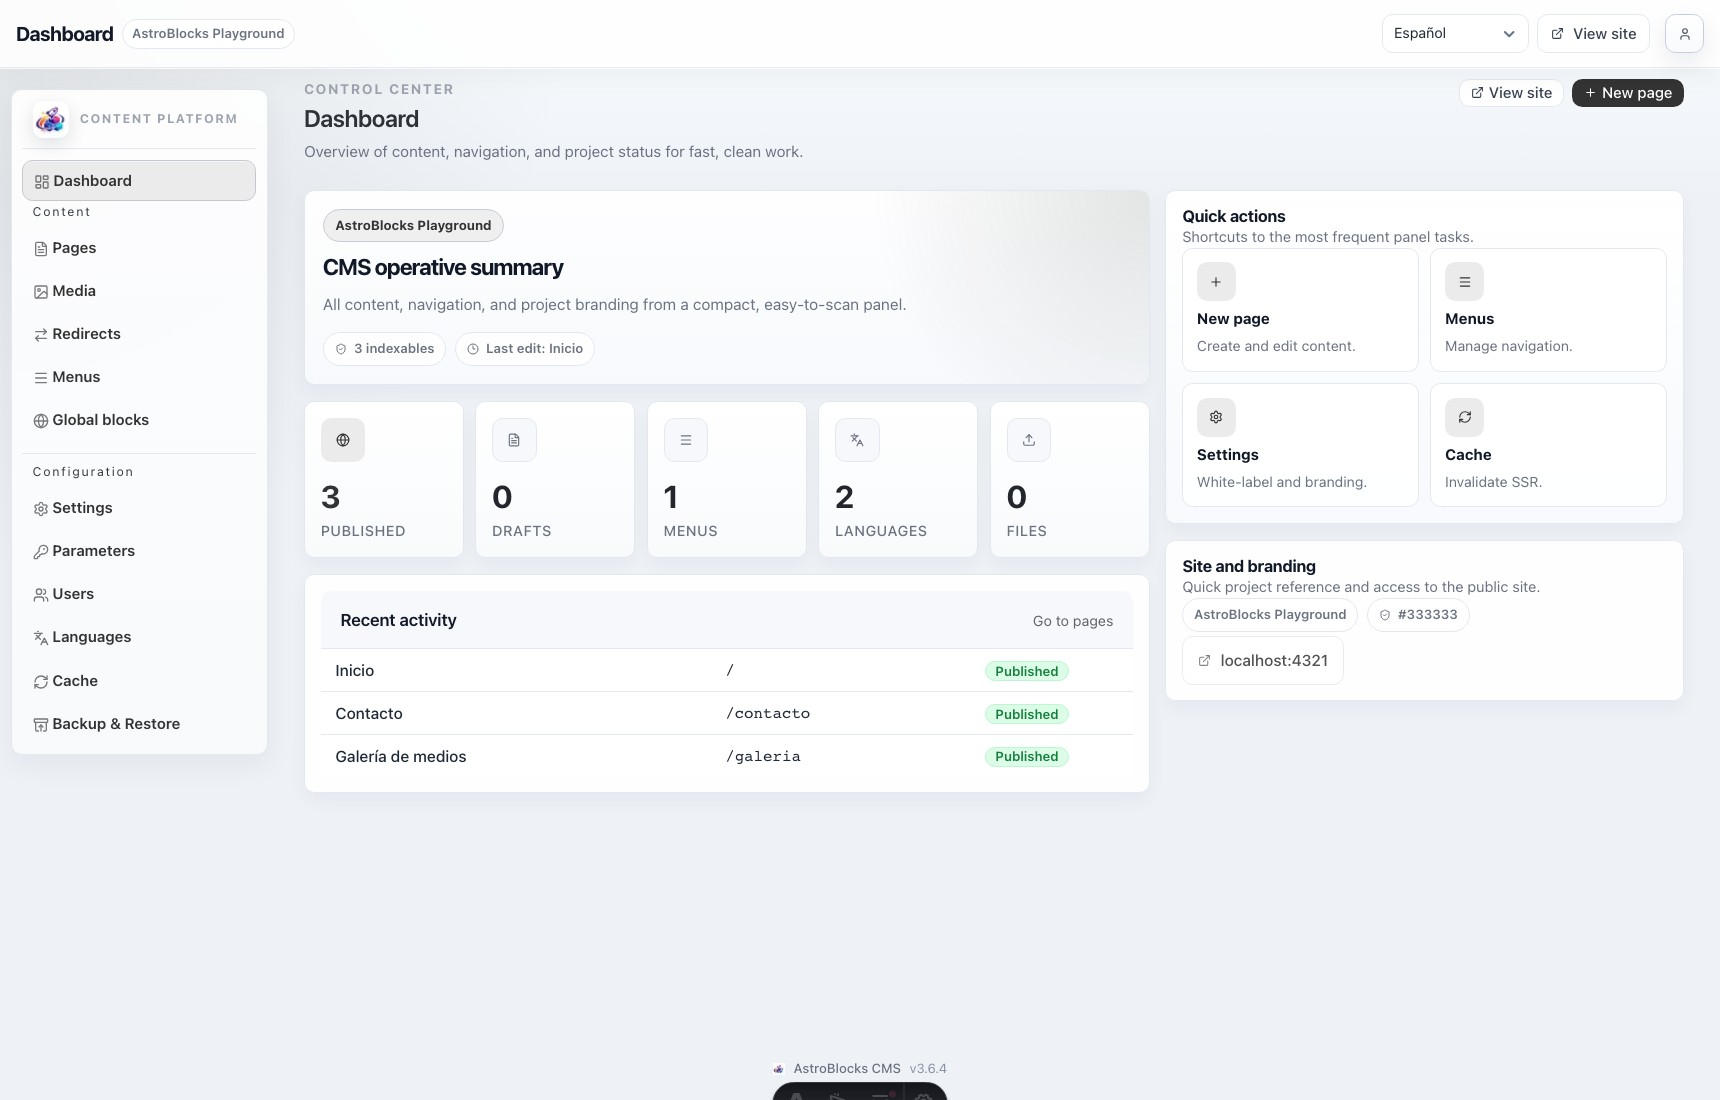
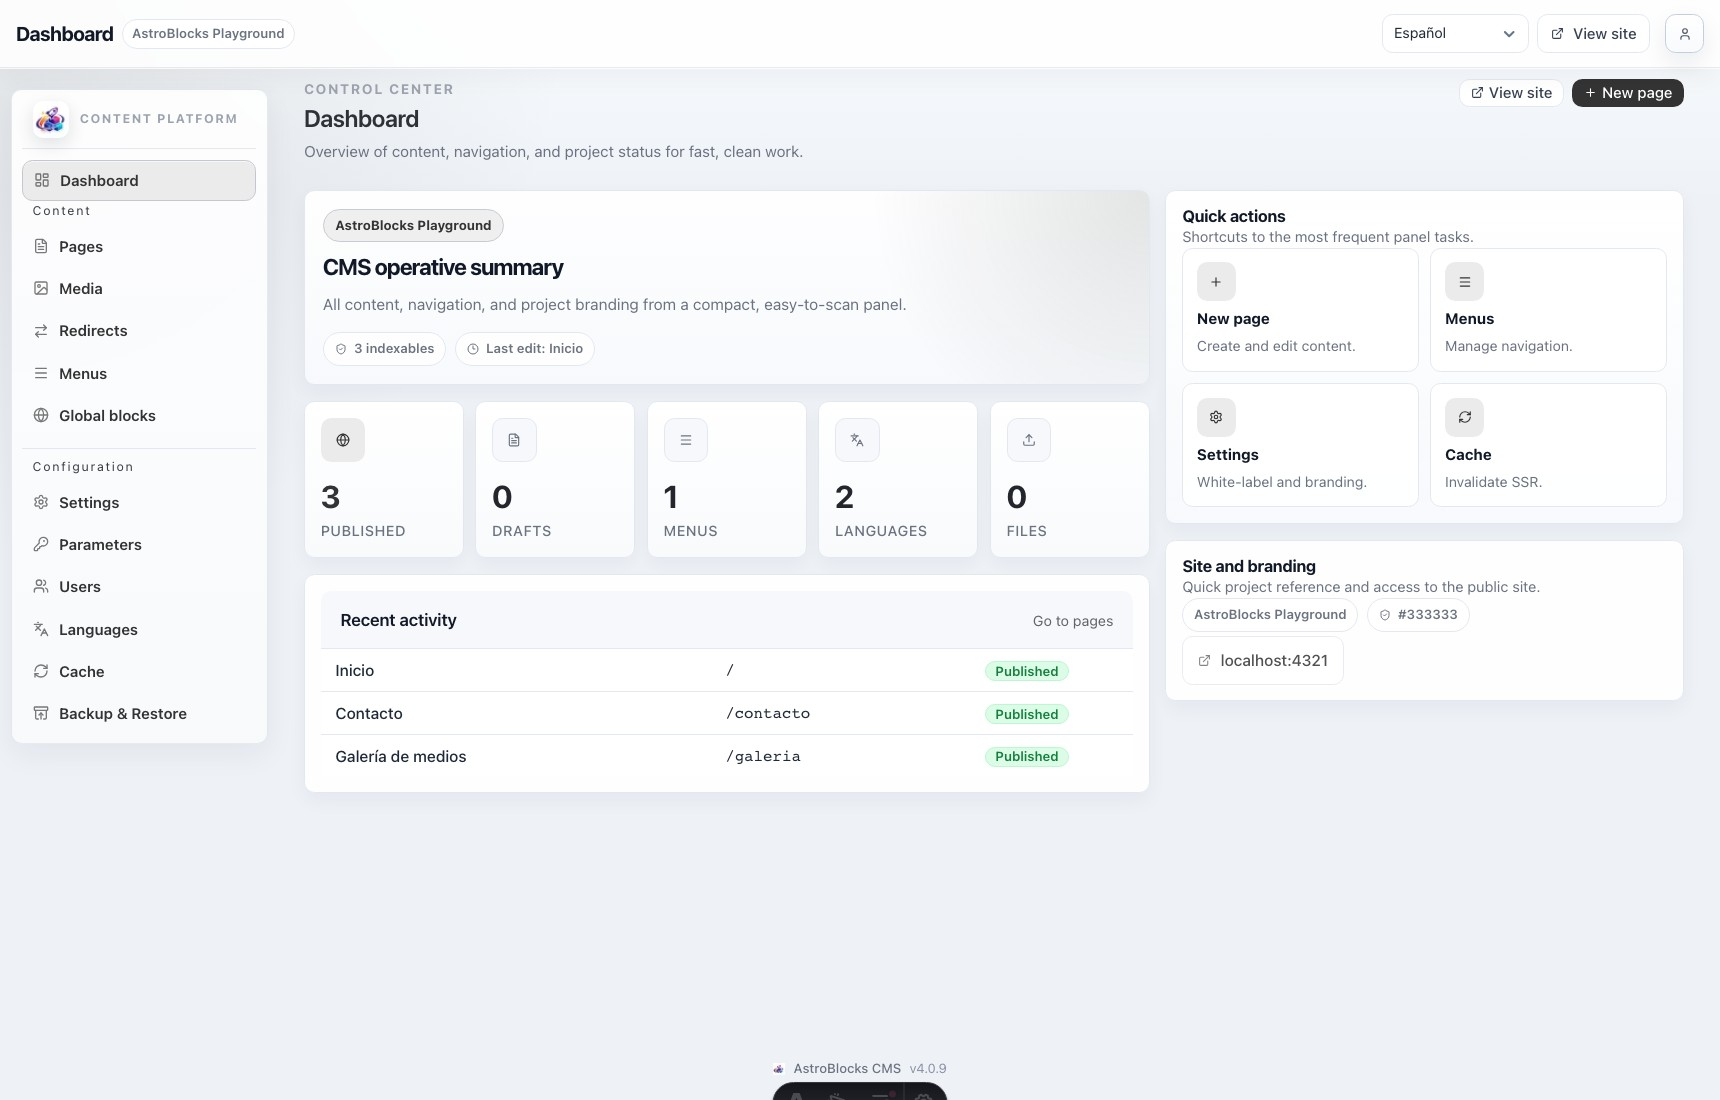
chore(release): 4.0.9

Changed region(s): [[0.0, 0.34, 0.1233, 0.68], [0.0308, 0.2164, 0.0616, 0.3091], [0.0308, 0.1545, 0.0924, 0.1855]]

diff --git a/CHANGELOG.md b/CHANGELOG.md
@@ -9,6 +9,23 @@ All notable changes to this project will be documented in this file.
 
 The format is based on [Keep a Changelog](https://keepachangelog.com/en/1.0.0/).
 
+## [4.0.9] - 2026-07-27
+
+### Title
+
+The media picker stops offering the wrong files, and the library stops shipping itself twice
+
+### Fixed
+
+- **The image picker offered documents and video as selectable.** Opening the picker for an image field listed PDFs, MP4s and any other uploaded file, and choosing one wrote that file's URL into the image field. The picker only ever filtered in file mode; it now filters in both, on the server. (#104)
+- **A narrower `allowedFileTypes` made the picker show more, not less.** A block prop declaring `accept: ['application/pdf']` on a site that had since removed `application/pdf` from `allowedFileTypes` ended up with an empty filter — which switched filtering off entirely and offered the whole library. The two lists are now separate: what a field may upload still respects the allowlist, what it may pick from already-uploaded assets does not, so assets your published pages reference stay selectable after you narrow the allowlist. (#104)
+- **The picker's count and pager disagreed with what it showed.** Type filtering ran in the browser after the server had already cut the page, so the picker could report "0 of 37" while matching files sat on later pages, and the pager counted files it was not showing. Filtering now happens before the page is cut, so both numbers describe the same set. (#104)
+- **The media library page sent the entire asset registry in its initial HTML.** Every upload's filename, URL, size, dimensions and date was server-rendered on first paint and then immediately thrown away and re-fetched by the browser, which also made the grid visibly reorder itself. The page now ships an empty shell and the grid is rendered once. (#104)
+
+### Changed
+
+- **`GET /cms/api/media` accepts an `accept` parameter** to filter the listing by MIME type. This is the internal API the admin UI uses; it is not part of the public consumer surface. (#104)
+
 ## [4.0.8] - 2026-07-21
 
 ### Title

diff --git a/README.md b/README.md
@@ -14,7 +14,7 @@ Licensed under the Business Source License 1.1
 </p>
 
 <p align="center">
-  <a href="./CHANGELOG.md"><img src="https://img.shields.io/badge/version-4.0.8-blue" alt="version" /></a>
+  <a href="./CHANGELOG.md"><img src="https://img.shields.io/badge/version-4.0.9-blue" alt="version" /></a>
   <img src="https://img.shields.io/badge/coverage-93.17%25-brightgreen" alt="coverage" />
   <a href="https://www.npmjs.com/package/@astroblocks/astro-blocks"><img src="https://img.shields.io/npm/v/%40astroblocks%2Fastro-blocks?logo=npm" alt="npm version" /></a>
   <a href="https://www.npmjs.com/package/@astroblocks/astro-blocks"><img src="https://img.shields.io/npm/dm/%40astroblocks%2Fastro-blocks?logo=npm" alt="npm downloads" /></a>
